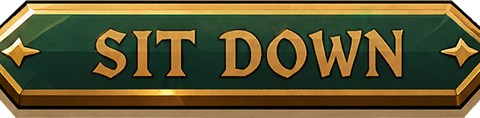
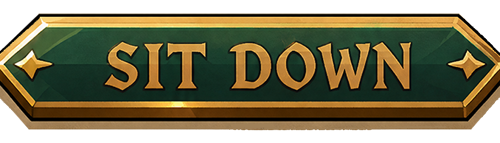
Main mockup: uncropped panel buttons (no shadows), bigger values, scene blurs behind the sheet

diff --git a/_mockups/main_screen_new.html b/_mockups/main_screen_new.html
@@ -24,9 +24,10 @@ body{display:flex;align-items:center;justify-content:center}
 #stage{position:relative;height:100vh;aspect-ratio:9/16;max-width:100vw;overflow:hidden;
   background:#0a0806;--u:1vh;--bodyFont:'JMH Beda',serif}
 #stage>img.env{position:absolute;inset:0;width:100%;height:100%;object-fit:cover;display:block;pointer-events:none}
-#bgL{z-index:0}
-#fgL{z-index:1;transform-origin:50% 92%;transition:transform .5s cubic-bezier(.4,0,.25,1)}
+#bgL{z-index:0;transition:filter .45s}
+#fgL{z-index:1;transform-origin:50% 92%;transition:transform .5s cubic-bezier(.4,0,.25,1),filter .45s}
 #stage.panel-open #fgL{transform:translateY(2.5%) scale(1.04)}
+#stage.panel-open #bgL,#stage.panel-open #fgL{filter:blur(6px)}
 
 /* ── patron cards: separated layers with per-layer parallax.
    The outer .card owns position + static z-rotation + the entry wave;
@@ -82,19 +83,19 @@ body{display:flex;align-items:center;justify-content:center}
 #panel.on{transform:translateY(0);pointer-events:auto}
 #panel .bgimg{position:absolute;inset:0;width:100%;height:100%;object-fit:cover}
 .pv{position:absolute;right:14%;font-family:var(--bodyFont);color:#2e1c0b;
-  font-size:calc(var(--u)*2.6);text-align:right}
+  font-size:calc(var(--u)*3.4);text-align:right}
 #pvTarget{bottom:37.2%}
 #pvStake{bottom:28.4%}
 #pvPot{bottom:19.5%}
 #pvBand{position:absolute;left:12%;right:12%;top:43.2%;height:10.4%;
   display:flex;align-items:center;justify-content:center;text-align:center;
   font-family:var(--bodyFont);font-size:calc(var(--u)*2.2);color:#e6d9bc}
-#btnSit{position:absolute;left:20%;width:59.5%;top:83.9%;cursor:pointer;transition:transform .1s}
+#btnSit{position:absolute;left:18.3%;width:62.8%;top:83%;cursor:pointer;transition:transform .1s}
 #btnSit:active{transform:scale(.95)}
-#btnSit img{width:100%;display:block;filter:drop-shadow(0 4px 9px rgba(0,0,0,.45))}
-#btnClose{position:absolute;left:81.7%;width:15.7%;top:88%;cursor:pointer;transition:transform .1s}
+#btnSit img{width:100%;display:block}
+#btnClose{position:absolute;left:80.5%;width:18.1%;top:87.3%;cursor:pointer;transition:transform .1s}
 #btnClose:active{transform:scale(.9) rotate(-5deg)}
-#btnClose img{width:100%;display:block;filter:drop-shadow(0 3px 6px rgba(0,0,0,.4))}
+#btnClose img{width:100%;display:block}
 
 /* mockup-only: body-font audition chip */
 #fontChip{position:absolute;left:2.5%;bottom:1.6%;z-index:12;cursor:pointer;
